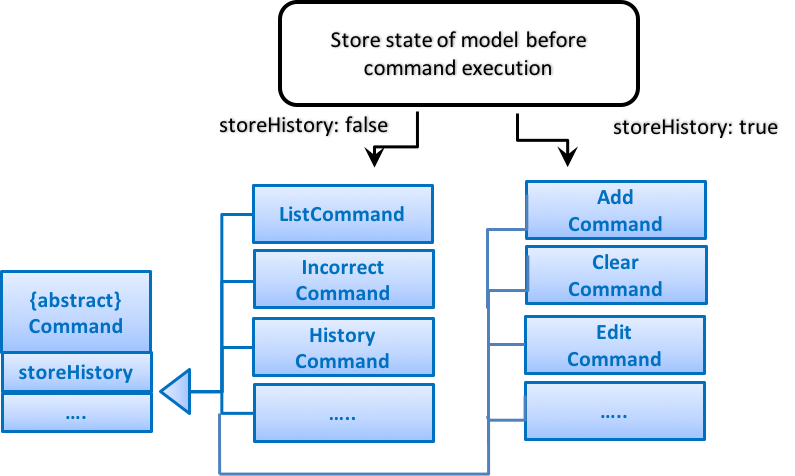
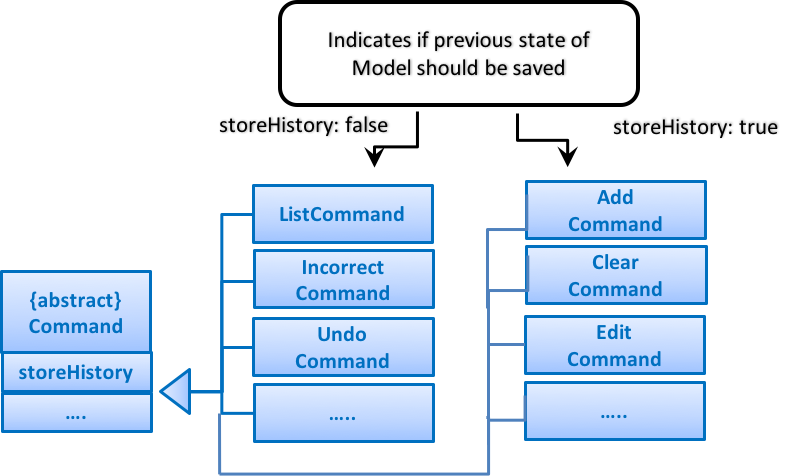
Modified DG

Changed region(s): [[0.3925, 0.0588, 0.7547, 0.1765], [0.3925, 0.6765, 0.483, 0.7353]]

diff --git a/docs/DeveloperGuide.md b/docs/DeveloperGuide.md
@@ -110,20 +110,44 @@ In summary, the `UI` component,
 * Binds itself to some data in the `Model` so that the UI can auto-update when data in the `Model` change.
 * Responds to events raised from various parts of the App and updates the UI accordingly.
 
+<!--@@author A0139019E-->
 ### Logic component
 
 <img src="images/LogicClassDiagram.png" width="800"><br>
 
 **API** : [`Logic.java`](../src/main/java/seedu/taskman/logic/Logic.java)
 
+When input from the user is entered, the UI would call on the Logic component to act on the command entered. 
+We use CommandParser to help create the appropriate Command object, depending on the input by the user. 
+For the more complicated concrete Command subclasses, we implement prepare{Command} in the Command subclass 
+to parse the fields entered by the user according to the type of command specifically. 
+The Command objects can change the Model, Storage components and/or raise events. 
+Given below is the Sequence Diagram for interactions within the Logic component for the execute("delete d1") API call.
+
+<img src="images/LogicSequenceDiagram.png" width="800"><br>
+As seen in Figure 3.3.2, commands that have been successfully executed (checked with result.success) and 
+have been flagged for storing (through the storeHistory field) will undergo an additional process. 
+A CommandHistory object will be created, storing fields related to the state of the Model before the command was 
+executed, as well as the input string for the command. This object will then be stored into the HistoryDeque. 
+The HistoryDeque is utilized by the History and Undo commands, containing snapshots of the Model component at different times.
+
+<img src="images/CommandTypes.png" width="800"><br>
+Figure 3.3.3 illustrates the storeHistory field for commands. 
+The storeHistory field is set to true for some commands, and false for others.
+View Command.java & the respective concrete Commands for more details.
+
+
+In summary, the Logic Component:
+Uses the CommandParser class to parse the user command.
+Executes the resultant Command object.
+Can affect the Model (e.g. adding a task), Storage (e.g. alter save location),  HistoryDeque and/or raise events.
+Passes result of the command execution as a CommandResult object to the UI component.
 1. `Logic` uses the `Parser` class to parse the user command.
 2. This results in a `Command` object which is executed by the `LogicManager`.
 3. The command execution can affect the `Model` (e.g. adding a task) and/or raise events.
 4. The result of the command execution is encapsulated as a `CommandResult` object which is passed back to the `Ui`.
 
-Given below is the Sequence Diagram for interactions within the `Logic` component for the `execute("delete 1")`
- API call.<br>
-<img src="images/DeleteTaskSdForLogic.png" width="800"><br>
+<!--@@author-->
 
 ### Model component
 <!--@@author A0121299A-->
